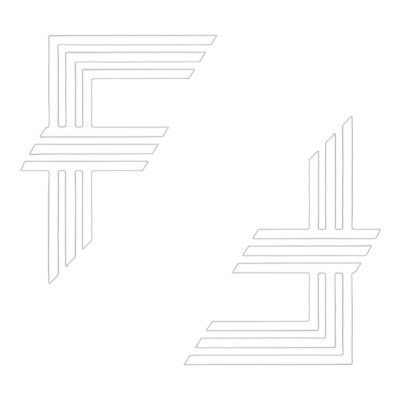
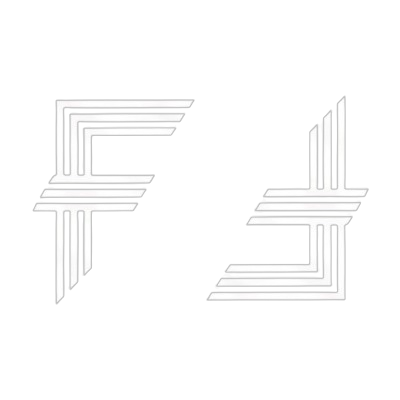
update: load page

diff --git a/styles/main.css b/styles/main.css
@@ -399,15 +399,20 @@ iframe {
   margin-left: -150vmin;
   border-radius: 50%;
   background: conic-gradient(#111 0deg 180deg, #222 180deg 360deg);
-  animation: rotate180 2s ease-out forwards;
+  transform: rotate(35deg); /* posizione iniziale */
   z-index: 1;
 }
 
+/* Avvia animazione solo quando viene aggiunta la classe start */
+.rotating-circle.start {
+  animation: rotate180 2s ease-out forwards;
+}
 
 @keyframes rotate180 {
   from { transform: rotate(35deg); }
   to   { transform: rotate(215deg); }
 }
+
 
 
 
@@ -428,7 +433,7 @@ iframe {
 }
 
 .right {
-  left: 50%;
+  left: 48%;
   transform: translate(0%, -50%);
   background-position: right center;
 }
@@ -473,7 +478,7 @@ iframe {
 /* Taglio diagonale: da sinistra in alto a destra in basso */
 .left {
   clip-path: polygon(0 0, 100% 0, 0  100%);
-  margin-left: 22.5%;
+  margin-left: 22%;
 }
 
 /* Taglio opposto: da destra in alto a sinistra in basso */

diff --git a/scripts/main.js b/scripts/main.js
@@ -151,10 +151,12 @@ const startTime = Date.now();
 window.addEventListener('load', function () {
   const elapsed = Date.now() - startTime;
   const remaining = Math.max(0, MIN_DISPLAY_TIME - elapsed);
-
+  document.getElementById('circle').classList.add('start');
   setTimeout(() => {
     // Avvia animazione explode
     imageContainer.classList.add('explode');
+    
+
 
     // Avvia il fade out del preloader dopo un delay pari alla durata dell'animazione explode
     const explodeDuration = 1000; // esempio: 1.5 secondi, metti la durata reale della tua animazione explode

diff --git a/index.html b/index.html
@@ -20,9 +20,8 @@
 </head>
 <body>
   <div id="preloader">
-
-    <div class="rotating-circle"></div>
-
+ 
+    <div class="rotating-circle" id="circle"></div>
 
 <div class="diagonal-line"></div>
   <div class="container" id="image-container">
